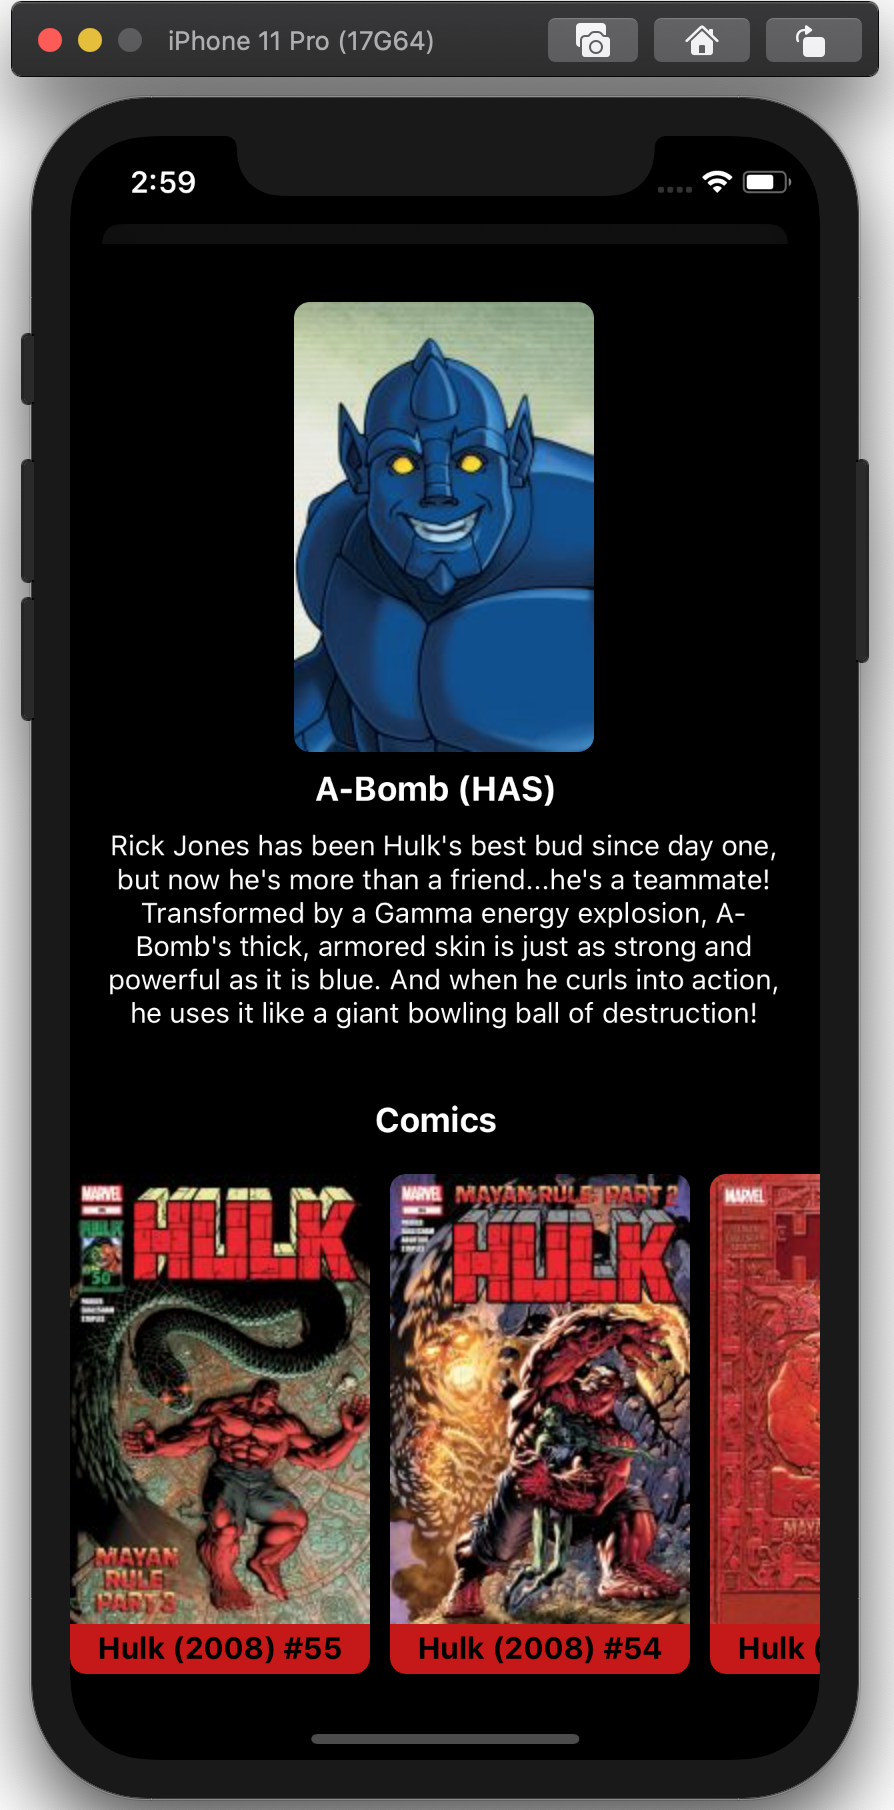
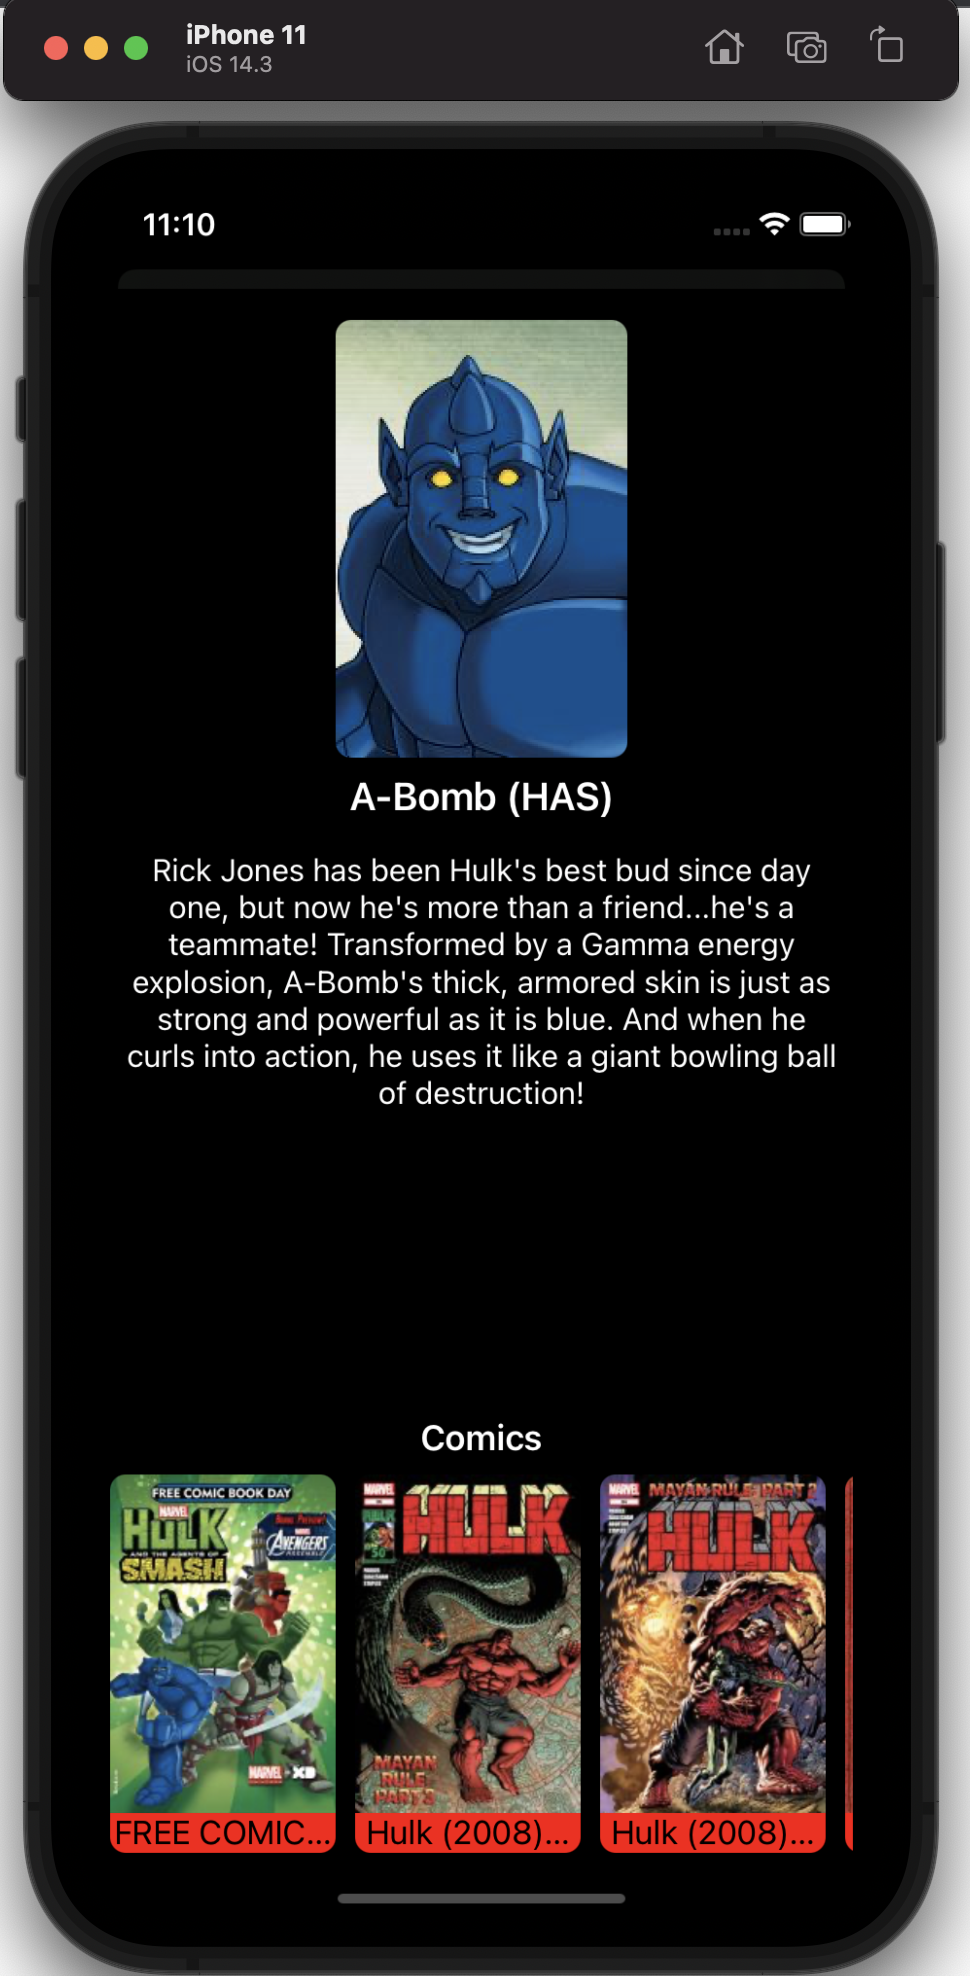
Fix CharacterListViewController bottom anchor

diff --git a/challangeMarvel/challangeMarvel/CharactersList/CharactersListViewController.swift b/challangeMarvel/challangeMarvel/CharactersList/CharactersListViewController.swift
@@ -52,7 +52,7 @@ class CharactersListViewController: UIViewController {
             collectionView.leadingAnchor.constraint(equalTo: view.leadingAnchor, constant: 16),
             collectionView.trailingAnchor.constraint(equalTo: view.trailingAnchor, constant: -16),
             collectionView.topAnchor.constraint(equalTo: view.topAnchor),
-            collectionView.bottomAnchor.constraint(equalTo: view.bottomAnchor),
+            collectionView.bottomAnchor.constraint(equalTo: view.safeAreaLayoutGuide.bottomAnchor),
         ])
     }
     
